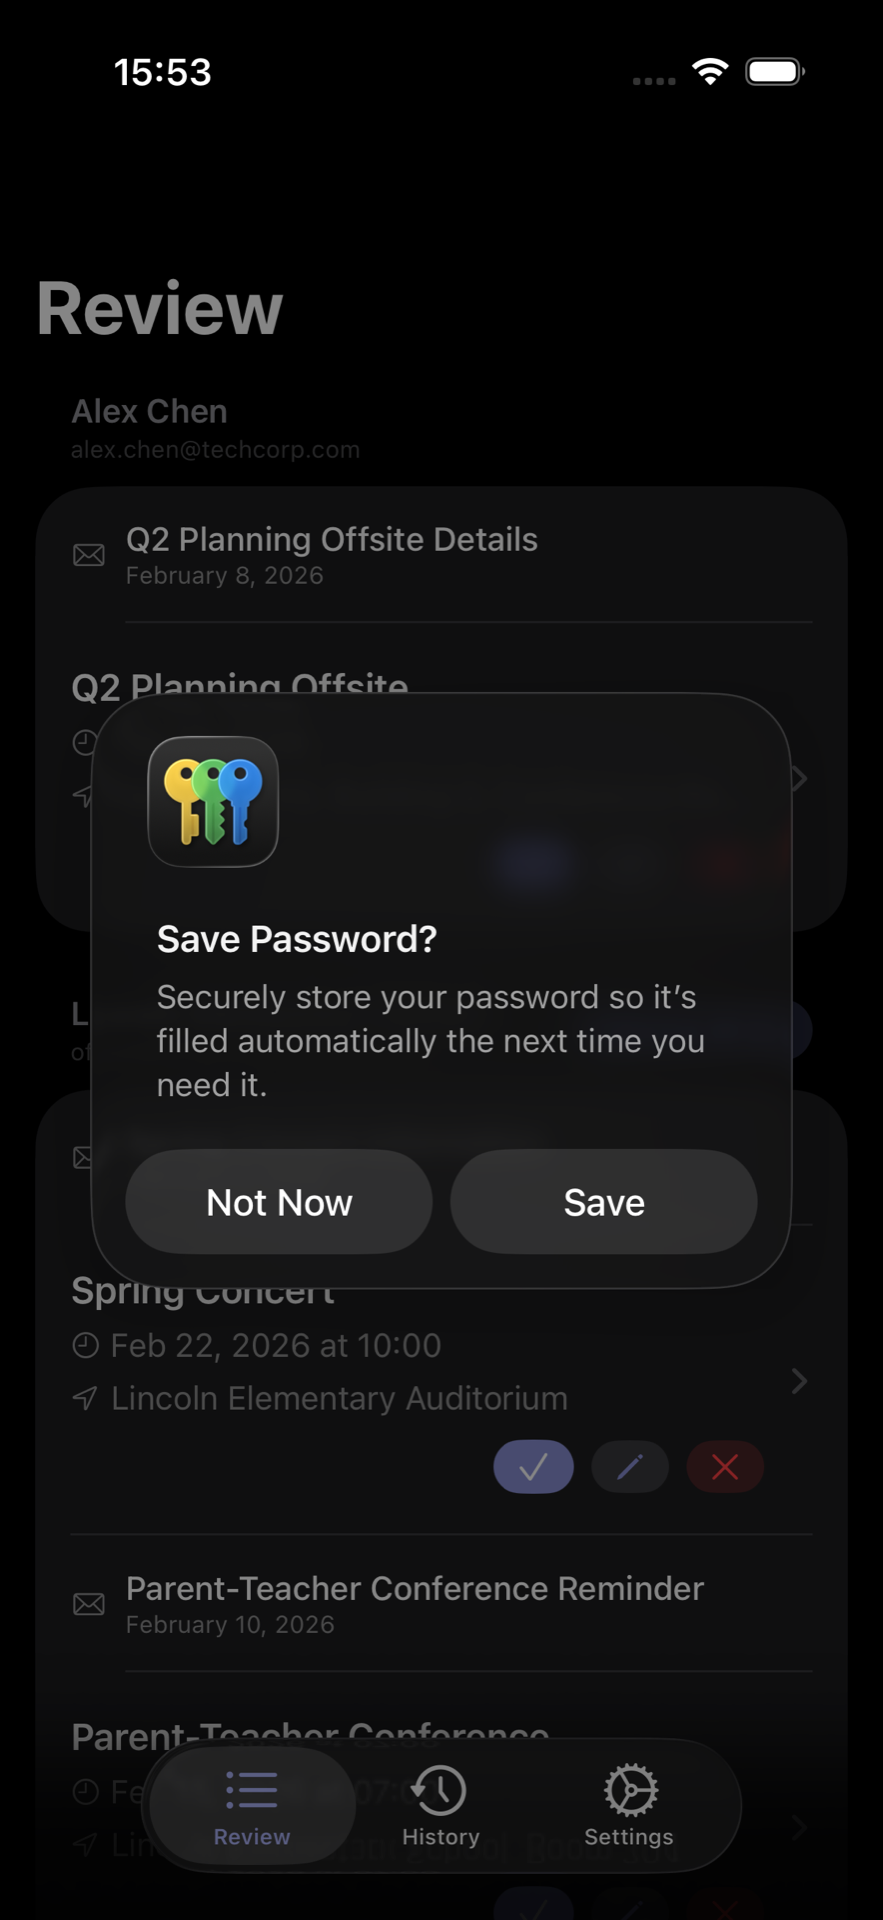
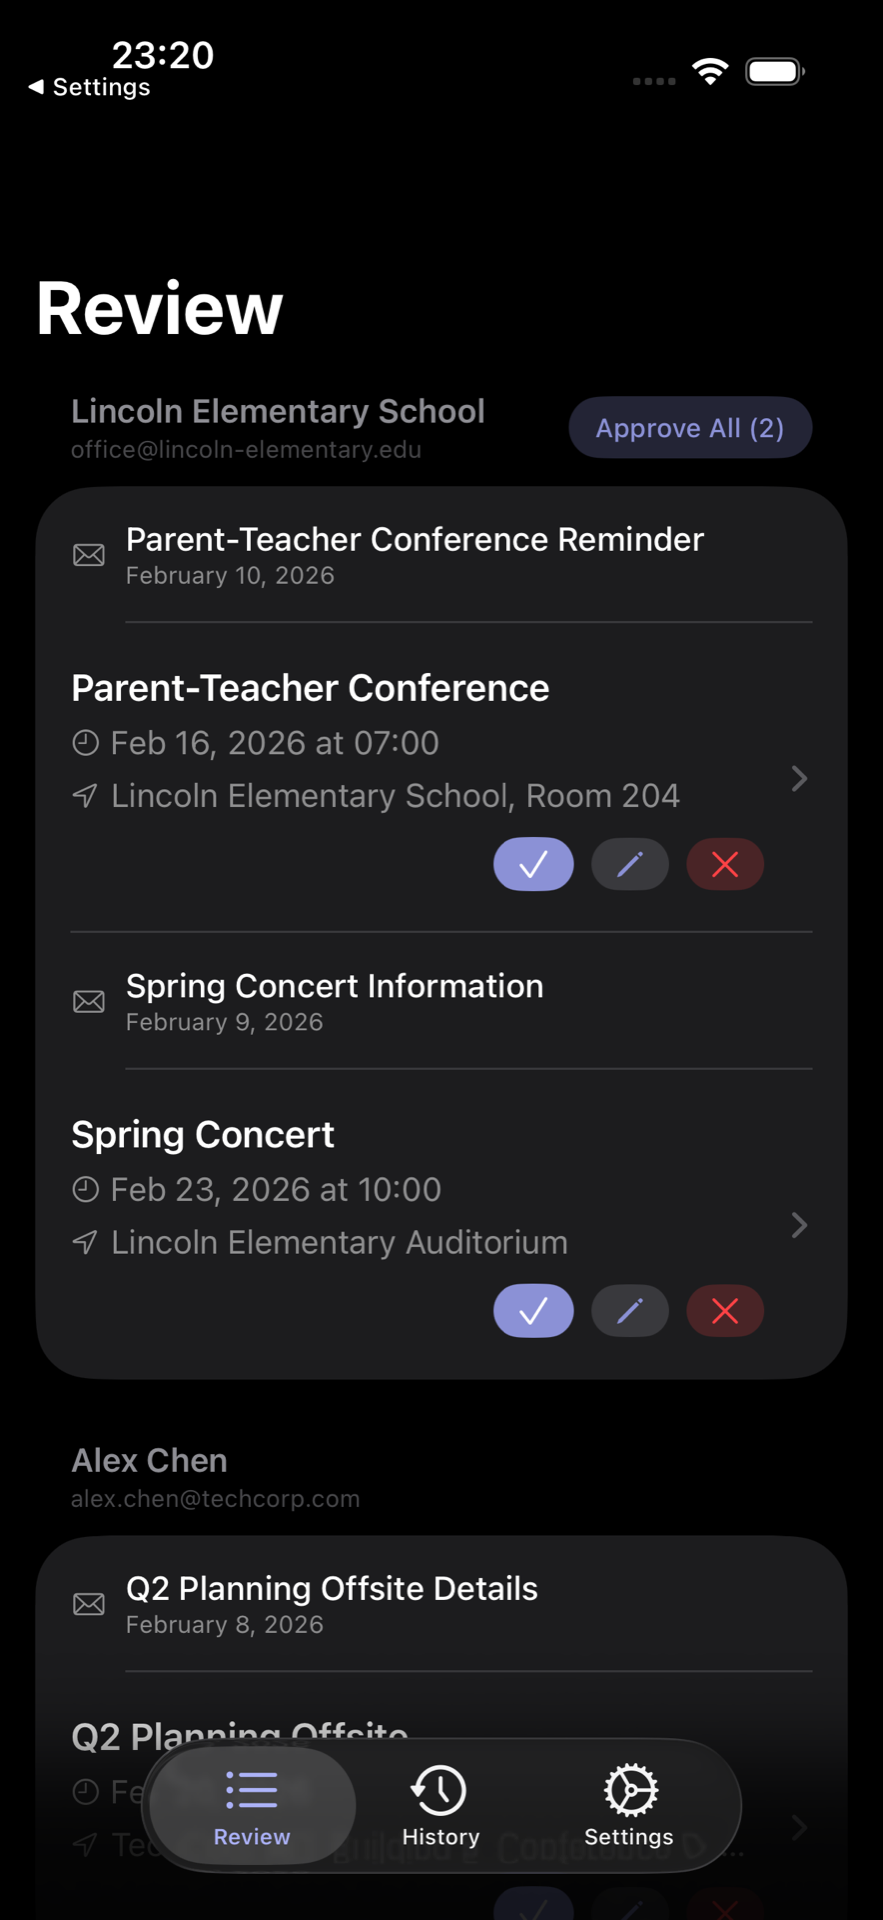
fix: disable iOS password autofill in simulator to prevent modal in screenshots
The "Save Password?" modal was obscuring iOS screenshots after login.
Fixed by running `defaults write -g AutoFillPasswords -bool false` on
the simulator — now done automatically in capture-ios-screenshots.sh.
This is a one-time setting that persists across builds and reboots.

diff --git a/docs/screenshot-guide.md b/docs/screenshot-guide.md
@@ -32,6 +32,11 @@ Capture all 24 screenshots in ~3 minutes using automated scripts instead of manu
 
 1. **Local Supabase running:** `supabase start`
 2. **Seed data exists:** Run `uv run python scripts/seed_screenshot_data.py seed --cleanup-first` to create the screenshot user and sample data
+3. **iOS simulator: disable password autofill** (one-time per simulator — persists across builds/reboots, only reset by `simctl erase`):
+   ```bash
+   xcrun simctl spawn "iPhone 17 Pro" defaults write -g AutoFillPasswords -bool false
+   ```
+   Without this, a "Save Password?" modal obscures iOS screenshots after login.
 
 **Screenshot user credentials:**
 - Email: `screenshots@selko.local`
